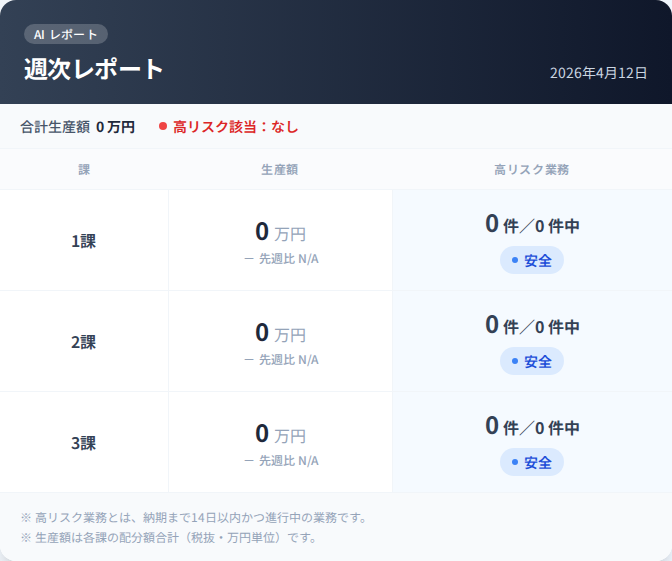
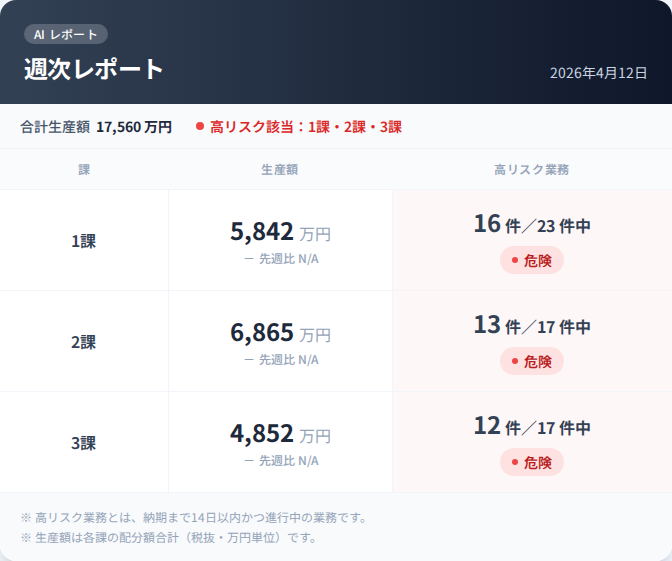
chore: 週次レポート更新 c7ea8b0402360b74f7aa0682eb95d1ac96da48a1

diff --git a/report.html b/report.html
@@ -40,11 +40,11 @@
       <div class="flex flex-wrap items-center gap-4 sm:gap-6 px-5 py-3 bg-slate-50 border-b border-slate-100 text-sm">
         <div class="flex items-center gap-1.5 text-slate-600">
           <span class="font-medium">合計生産額</span>
-          <span class="font-bold text-slate-800">0 万円</span>
+          <span class="font-bold text-slate-800">17,560 万円</span>
         </div>
         <div class="flex items-center gap-1.5">
           <span class="w-2 h-2 rounded-full bg-red-500 flex-shrink-0" aria-hidden="true"></span>
-          <span class="font-semibold text-red-600">高リスク該当：なし</span>
+          <span class="font-semibold text-red-600">高リスク該当：1課・2課・3課</span>
         </div>
       </div>
 
@@ -71,83 +71,83 @@
           </thead>
 
           <tbody class="divide-y divide-slate-100">
-            <tr data-risk-level="low" class="transition-colors hover:bg-slate-50/50">
+            <tr data-risk-level="high" class="transition-colors hover:bg-slate-50/50">
               <th scope="row" class="px-4 py-4 text-sm sm:text-base font-semibold text-slate-700">
                 1課
               </th>
               <td class="px-4 py-4 border-x border-slate-100">
                 <div class="text-xl sm:text-2xl font-bold text-slate-800">
-                  0 <span class="text-sm sm:text-base font-normal text-slate-400">万円</span>
+                  5,842 <span class="text-sm sm:text-base font-normal text-slate-400">万円</span>
                 </div>
                 <div class="flex items-center justify-center gap-1 text-xs text-slate-400 font-medium mt-1">
                   <span>－</span><span>先週比 N/A</span>
                 </div>
               </td>
               <td
-                class="px-4 py-4 bg-blue-50/60"
-                aria-label="高リスク業務: 安全（0件中0件）"
+                class="px-4 py-4 bg-red-50/60"
+                aria-label="高リスク業務: 危険（23件中16件）"
               >
                 <div class="flex flex-col items-center gap-2">
                   <span class="text-sm sm:text-base font-bold text-slate-700">
-                    <span class="text-xl sm:text-2xl">0</span> 件／0 件中
+                    <span class="text-xl sm:text-2xl">16</span> 件／23 件中
                   </span>
-                  <span class="inline-flex items-center gap-1.5 rounded-full bg-blue-100 text-blue-700 px-3 py-1 text-xs sm:text-sm font-semibold">
-                    <span class="w-1.5 h-1.5 rounded-full bg-blue-500 flex-shrink-0" aria-hidden="true"></span>
-                    安全
+                  <span class="inline-flex items-center gap-1.5 rounded-full bg-red-100 text-red-700 px-3 py-1 text-xs sm:text-sm font-semibold">
+                    <span class="w-1.5 h-1.5 rounded-full bg-red-500 flex-shrink-0" aria-hidden="true"></span>
+                    危険
                   </span>
                 </div>
               </td>
             </tr>
-<tr data-risk-level="low" class="transition-colors hover:bg-slate-50/50">
+<tr data-risk-level="high" class="transition-colors hover:bg-slate-50/50">
               <th scope="row" class="px-4 py-4 text-sm sm:text-base font-semibold text-slate-700">
                 2課
               </th>
               <td class="px-4 py-4 border-x border-slate-100">
                 <div class="text-xl sm:text-2xl font-bold text-slate-800">
-                  0 <span class="text-sm sm:text-base font-normal text-slate-400">万円</span>
+                  6,865 <span class="text-sm sm:text-base font-normal text-slate-400">万円</span>
                 </div>
                 <div class="flex items-center justify-center gap-1 text-xs text-slate-400 font-medium mt-1">
                   <span>－</span><span>先週比 N/A</span>
                 </div>
               </td>
               <td
-                class="px-4 py-4 bg-blue-50/60"
-                aria-label="高リスク業務: 安全（0件中0件）"
+                class="px-4 py-4 bg-red-50/60"
+                aria-label="高リスク業務: 危険（17件中13件）"
               >
                 <div class="flex flex-col items-center gap-2">
                   <span class="text-sm sm:text-base font-bold text-slate-700">
-                    <span class="text-xl sm:text-2xl">0</span> 件／0 件中
+                    <span class="text-xl sm:text-2xl">13</span> 件／17 件中
                   </span>
-                  <span class="inline-flex items-center gap-1.5 rounded-full bg-blue-100 text-blue-700 px-3 py-1 text-xs sm:text-sm font-semibold">
-                    <span class="w-1.5 h-1.5 rounded-full bg-blue-500 flex-shrink-0" aria-hidden="true"></span>
-                    安全
+                  <span class="inline-flex items-center gap-1.5 rounded-full bg-red-100 text-red-700 px-3 py-1 text-xs sm:text-sm font-semibold">
+                    <span class="w-1.5 h-1.5 rounded-full bg-red-500 flex-shrink-0" aria-hidden="true"></span>
+                    危険
                   </span>
                 </div>
               </td>
             </tr>
-<tr data-risk-level="low" class="transition-colors hover:bg-slate-50/50">
+<tr data-risk-level="high" class="transition-colors hover:bg-slate-50/50">
               <th scope="row" class="px-4 py-4 text-sm sm:text-base font-semibold text-slate-700">
                 3課
               </th>
               <td class="px-4 py-4 border-x border-slate-100">
                 <div class="text-xl sm:text-2xl font-bold text-slate-800">
-                  0 <span class="text-sm sm:text-base font-normal text-slate-400">万円</span>
+                  4,852 <span class="text-sm sm:text-base font-normal text-slate-400">万円</span>
                 </div>
                 <div class="flex items-center justify-center gap-1 text-xs text-slate-400 font-medium mt-1">
                   <span>－</span><span>先週比 N/A</span>
                 </div>
               </td>
               <td
-                class="px-4 py-4 bg-blue-50/60"
-                aria-label="高リスク業務: 安全（0件中0件）"
+                class="px-4 py-4 bg-red-50/60"
+                aria-label="高リスク業務: 危険（17件中12件）"
               >
                 <div class="flex flex-col items-center gap-2">
                   <span class="text-sm sm:text-base font-bold text-slate-700">
-                    <span class="text-xl sm:text-2xl">0</span> 件／0 件中
+                    <span class="text-xl sm:text-2xl">12</span> 件／17 件中
                   </span>
-                  <span class="inline-flex items-center gap-1.5 rounded-full bg-blue-100 text-blue-700 px-3 py-1 text-xs sm:text-sm font-semibold">
-                    <span class="w-1.5 h-1.5 rounded-full bg-blue-500 flex-shrink-0" aria-hidden="true"></span>
-                    安全
+                  <span class="inline-flex items-center gap-1.5 rounded-full bg-red-100 text-red-700 px-3 py-1 text-xs sm:text-sm font-semibold">
+                    <span class="w-1.5 h-1.5 rounded-full bg-red-500 flex-shrink-0" aria-hidden="true"></span>
+                    危険
                   </span>
                 </div>
               </td>
